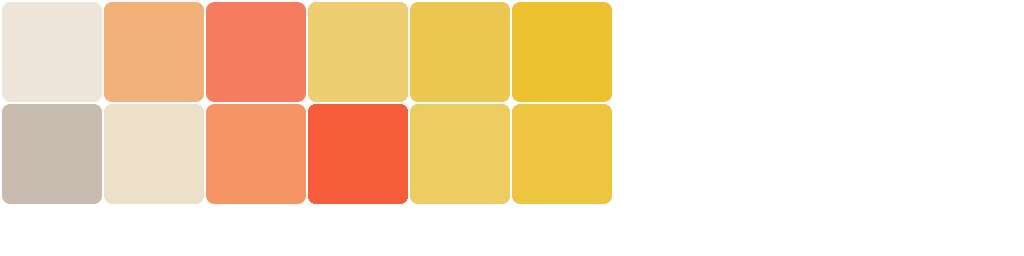
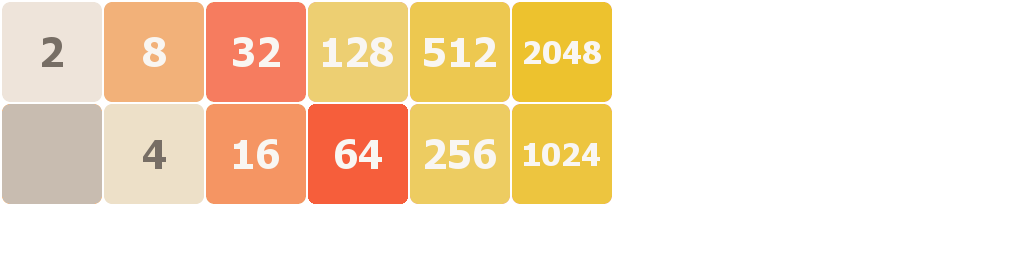
new tile images and GridTest extended. Started creating ScoreDisplayTest

diff --git a/src/test/java/nl/tudelft/ti2206/gameobjects/GridTest.java b/src/test/java/nl/tudelft/ti2206/gameobjects/GridTest.java
@@ -7,12 +7,18 @@ import static org.junit.Assert.assertTrue;
 import static org.mockito.Matchers.anyString;
 import static org.mockito.Matchers.eq;
 import static org.mockito.Mockito.mock;
+import static org.mockito.Mockito.times;
+import static org.mockito.Mockito.verify;
 import static org.mockito.Mockito.when;
 
 import java.util.List;
 
+import nl.tudelft.ti2206.game.Game;
+import nl.tudelft.ti2206.game.Game.GameState;
 import nl.tudelft.ti2206.game.HeadlessLauncher;
+import nl.tudelft.ti2206.gameobjects.Grid.Direction;
 import nl.tudelft.ti2206.handlers.AssetHandler;
+import nl.tudelft.ti2206.handlers.TileHandler;
 
 import org.junit.Before;
 import org.junit.Test;
@@ -33,15 +39,12 @@ public class GridTest {
 	private static final int FOUR = 4;
 	/** The object under test. */
 	private Grid grid;
-	/** A mock for the GameWorld object. */
-	// private GameWorld world;
-	/** A mock for the TileHandler object. */
-	// private TileHandler tileHandler;
+	private TileHandler tileHandler;
 
 	private static Skin skin;
 	private static Texture texture;
 	private static TextureRegion region;
-	
+
 	/**
 	 * Initializes all the mocks and creates the test object.
 	 */
@@ -55,9 +58,12 @@ public class GridTest {
 		when(skin.get(anyString(), eq(Texture.class))).thenReturn(texture);
 		when(skin.getRegion(anyString())).thenReturn(region);
 		AssetHandler.setSkin(skin);
-		
+
+		tileHandler = mock(TileHandler.class);
+
 		grid = new Grid(false);
-		
+		grid.setTileHandler(tileHandler);
+		Game.setState(GameState.RUNNING);
 	}
 
 	/**
@@ -120,49 +126,49 @@ public class GridTest {
 		assertFalse(grid.isFull());
 	}
 
-	// @Test
-	// public void testTileAddedOnMove() {
-	// stub(tileHandler.isMoveMade()).toReturn(true);
-	//
-	// int endTiles = 0;
-	// int tiles = 0;
-	//
-	// // make a move to the left. This can always be done because of the stub.
-	// grid.move(Direction.LEFT);
-	//
-	// // if the tile is not empty, count it. If the tile is merged, dont
-	// // increment endTiles because a merge has taken place.
-	// for (Tile tile : grid.getTiles()) {
-	// if (!tile.isEmpty()) {
-	// tiles++;
-	// if (!tile.isMerged()) {
-	// endTiles++;
-	// }
-	// }
-	// }
-	//
-	// assertEquals(endTiles, tiles);
-	// }
+	@Test
+	public void testTileAddedOnMove() {
+		when(tileHandler.isMoveMade()).thenReturn(true);
 
-	// /**
-	// * Tests if a move is correctly not made because the game has been won.
-	// */
-	// @Test
-	// public void testMoveImpossibleWhenWon() {
-	// stub(world.isWon()).toReturn(true);
-	// grid.move(Direction.LEFT);
-	// verify(tileHandler, times(0)).moveLeft();
-	// }
+		int endTiles = 0;
+		int tiles = 0;
 
-	// /**
-	// * Tests if a move is correctly not made because the game has been lost.
-	// */
-	// @Test
-	// public void testMoveImpossibleWhenLost() {
-	// stub(world.isLost()).toReturn(true);
-	// grid.move(Direction.LEFT);
-	// verify(tileHandler, times(0)).moveLeft();
-	// }
+		// make a move to the left. This can always be done because of the stub.
+		grid.move(Direction.LEFT);
+
+		// if the tile is not empty, count it. If the tile is merged, dont
+		// increment endTiles because a merge has taken place.
+		for (Tile tile : grid.getTiles()) {
+			if (!tile.isEmpty()) {
+				tiles++;
+				if (!tile.isMerged()) {
+					endTiles++;
+				}
+			}
+		}
+
+		assertEquals(endTiles, tiles);
+	}
+
+	/**
+	 * Tests if a move is correctly not made because the game has been won.
+	 */
+	@Test
+	public void testMoveImpossibleWhenWon() {
+		Game.setState(GameState.WON);
+		grid.move(Direction.LEFT);
+		verify(tileHandler, times(0)).moveLeft();
+	}
+
+	/**
+	 * Tests if a move is correctly not made because the game has been lost.
+	 */
+	@Test
+	public void testMoveImpossibleWhenLost() {
+		Game.setState(GameState.LOST);
+		grid.move(Direction.LEFT);
+		verify(tileHandler, times(0)).moveLeft();
+	}
 
 	/**
 	 * Tests if getPossibleMoves() correctly returns 0 when no move is possible.
@@ -210,49 +216,49 @@ public class GridTest {
 		assertEquals(4, found);
 	}
 
-	// /**
-	// * Tests the move method when moving down.
-	// */
-	// @Test
-	// public void testMoveDown() {
-	// grid.move(Direction.DOWN);
-	// Mockito.verify(tileHandler).moveDown();
-	// }
-	//
-	// /**
-	// * Tests the move method when moving up.
-	// */
-	// @Test
-	// public void testMoveUp() {
-	// grid.move(Direction.UP);
-	// Mockito.verify(tileHandler).moveUp();
-	// }
-	//
-	// /**
-	// * Tests the move method when moving left.
-	// */
-	// @Test
-	// public void testMoveLeft() {
-	// grid.move(Direction.LEFT);
-	// Mockito.verify(tileHandler).moveLeft();
-	// }
-	//
-	// /**
-	// * Tests the move method when moving right.
-	// */
-	// @Test
-	// public void testMoveRight() {
-	// grid.move(Direction.RIGHT);
-	// Mockito.verify(tileHandler).moveRight();
-	// }
-	//
-	// /**
-	// * Tests if getTileHandler() correctly returns the tileHandler.
-	// */
-	// @Test
-	// public void testGetTileHandler() {
-	// assertEquals(tileHandler, grid.getTileHandler());
-	// }
+	/**
+	 * Tests the move method when moving down.
+	 */
+	@Test
+	public void testMoveDown() {
+		grid.move(Direction.DOWN);
+		verify(tileHandler).moveDown();
+	}
+
+	/**
+	 * Tests the move method when moving up.
+	 */
+	@Test
+	public void testMoveUp() {
+		grid.move(Direction.UP);
+		verify(tileHandler).moveUp();
+	}
+
+	/**
+	 * Tests the move method when moving left.
+	 */
+	@Test
+	public void testMoveLeft() {
+		grid.move(Direction.LEFT);
+		verify(tileHandler).moveLeft();
+	}
+
+	/**
+	 * Tests the move method when moving right.
+	 */
+	@Test
+	public void testMoveRight() {
+		grid.move(Direction.RIGHT);
+		verify(tileHandler).moveRight();
+	}
+
+	/**
+	 * Tests if getTileHandler() correctly returns the tileHandler.
+	 */
+	@Test
+	public void testGetTileHandler() {
+		assertTrue(grid.getTileHandler() instanceof TileHandler);
+	}
 
 	/**
 	 * Tests if restart() correctly resets all tiles and the current highest

diff --git a/src/main/java/nl/tudelft/ti2206/gameobjects/ScoreDisplay.java b/src/main/java/nl/tudelft/ti2206/gameobjects/ScoreDisplay.java
@@ -57,6 +57,22 @@ public class ScoreDisplay extends Group {
 		group.addActor(highScoreLabel);
 		group.addActor(highestTileLabel);
 	}
+	
+	public ScoreDisplay(Grid grid, Label label) {
+		this.grid = grid;
+		group = new Group();
+
+		scoreLabel = label;
+		highScoreLabel = label;
+		highestTileLabel = label;
+		
+		initRegions();
+		initLabels();
+
+		group.addActor(scoreLabel);
+		group.addActor(highScoreLabel);
+		group.addActor(highestTileLabel);
+	}
 
 	/**
 	 * Initializes all TextureRegions for the scores.
